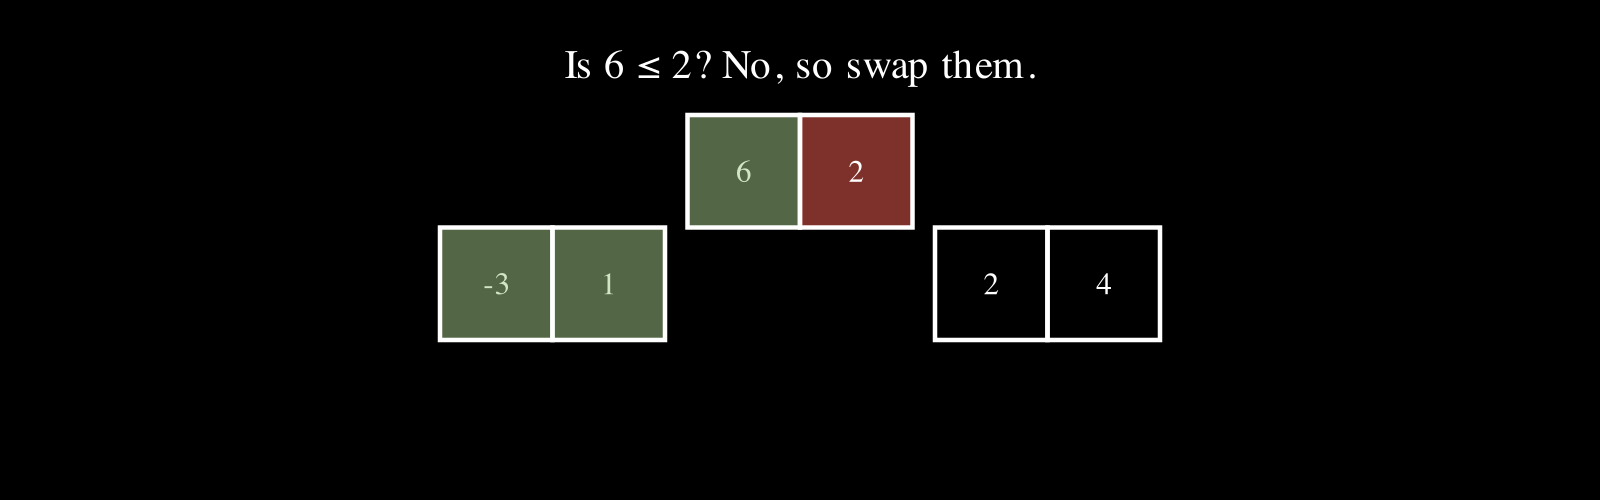
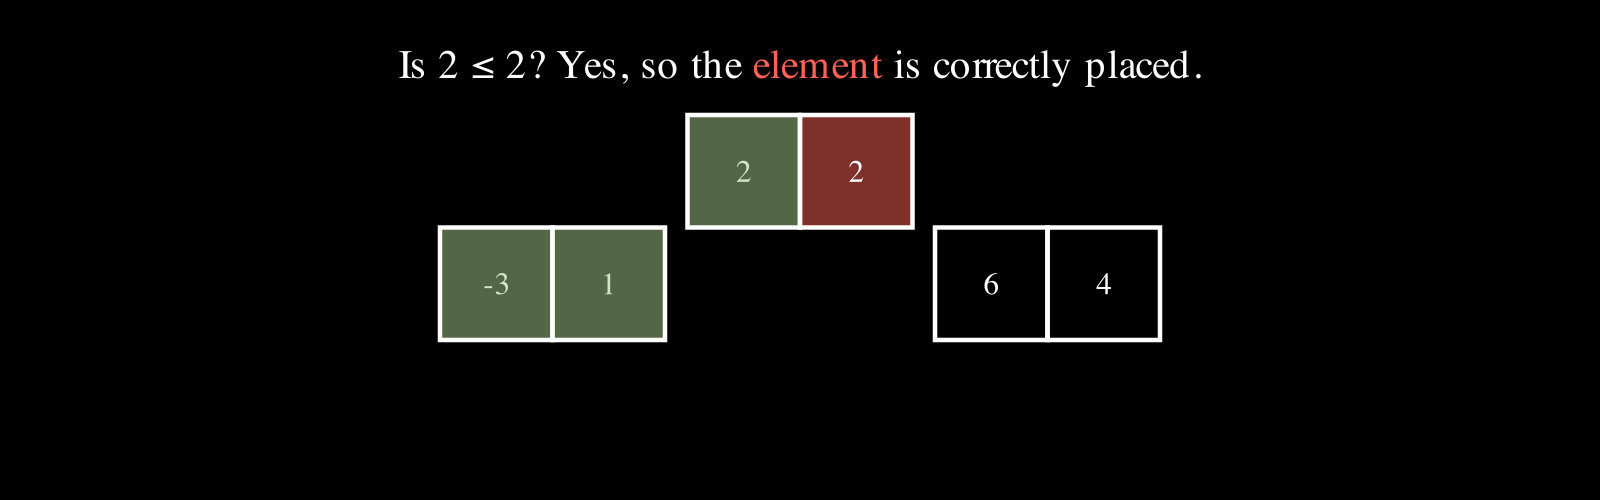
fix insertion sort visual bug and clean UI

Changed region(s): [[0.25, 0.09, 0.75, 0.18], [0.5938, 0.54, 0.625, 0.6], [0.4375, 0.33, 0.4688, 0.36]]

diff --git a/react-src/components/Slideshow.tsx b/react-src/components/Slideshow.tsx
@@ -42,9 +42,9 @@ const Slideshow: React.FC<SlideshowProps> = ({
     updateCurrentSlide((currentRef.current - 1 + size) % size)
   const lastSlide = () => updateCurrentSlide(size - 1)
   const handleKeyDown = useCallback((e: KeyboardEvent) => {
-    if (e.key === "ArrowRight") {
+    if (e.key === "ArrowRight" && currentRef.current !== size - 1) {
       nextSlide()
-    } else if (e.key === "ArrowLeft") {
+    } else if (e.key === "ArrowLeft" && currentRef.current !== 0) {
       prevSlide()
     }
   }, [])
@@ -120,6 +120,18 @@ const Slideshow: React.FC<SlideshowProps> = ({
             }
           </div>
         ))}
+      </div>
+      <div className="flex flex-row justify-end">
+        <div className="flex flex-row justify-end">
+          <span
+            style={{
+              visibility: isFocused ? "visible" : "hidden",
+              color: "gray",
+            }}
+          >
+            Use Arrow keys
+          </span>
+        </div>
       </div>
     </div>
   )

diff --git a/react-src/components/comics/insertion-sort/InsertionSortSnapshot.tsx b/react-src/components/comics/insertion-sort/InsertionSortSnapshot.tsx
@@ -32,11 +32,14 @@ const InsertionSortCode = () => {
     <div>
       <b>Algorithm Steps: </b>
       <ul>
-        <li>For each {elText}, moving from left to right:</li>
-
         <li>
-          Move the {elText} into the {arrayText}. One way to do this is by
-          swapping side-by-side elements repeatedly.
+          For each {elText}, moving from left to right:
+          <ul>
+            <li>
+              Move the {elText} into the {arrayText}. One way to do this is by
+              swapping side-by-side elements repeatedly.
+            </li>
+          </ul>
         </li>
       </ul>
     </div>
@@ -63,7 +66,7 @@ const InsertionSortCode = () => {
     <div>
       {summary}
 
-      <Slideshow folder="/graphics/insertion-sort/slideshow1" size={16} />
+      <Slideshow folder="/graphics/insertion-sort/slideshow1" size={21} />
     </div>
   )
 }

diff --git a/react-src/components/comics/dijkstra/DijkstraCode.tsx b/react-src/components/comics/dijkstra/DijkstraCode.tsx
@@ -34,10 +34,9 @@ dist, prev = dijkstra(g, start)
 print("distance to 6 should be 10 and is", dist[6])
 `
   return (
-    <div>
+    <div className="rounded-lg overflow-hidden">
       <Editor
         className="monaco-editor"
-        //   height="38rem"
         height={pythonCode.split("\n").length * 21 + "px"}
         defaultLanguage="python"
         theme="vs-dark"

diff --git a/react-src/components/Sequence.tsx b/react-src/components/Sequence.tsx
@@ -41,11 +41,9 @@ const Sequence: React.FC<SequenceProps> = ({
   }
   const sequenceStyle: React.CSSProperties = {
     display: "flex",
-    // flexDirection: isColumn ? "column" : "row",
     gap: gap,
     alignItems: alignItems,
   }
-  //   <div key={index} style={{ display: "flex" }}>
   return (
     <div style={outerStyle}>
       {label !== "" && label}

diff --git a/react-src/components/comics/insertion-sort/InsertionSortCode.tsx b/react-src/components/comics/insertion-sort/InsertionSortCode.tsx
@@ -15,7 +15,7 @@ insertion_sort(lst)
 print("list sorted:", lst)
 `
   return (
-    <div>
+    <div className="rounded-lg overflow-hidden">
       <Editor
         className="monaco-editor"
         //   height="38rem"

diff --git a/manim-src/insertion_sort.py b/manim-src/insertion_sort.py
@@ -168,20 +168,26 @@ class InsertionSort(Scene):
                 self.capture()
                 self.clear()
                 while True:
+                    if j < 0:
+                        break
                     vlist = self.show_new_list(lst)
                     self.show_subarray(vlist, subarray_len=i)
                     self.show_list_swap(vlist, j, j + 1, lst[j], lst[j + 1])
                     self.capture()
                     self.clear()
-                    lst[j + 1] = lst[j]
-                    j -= 1
-                    if j < 0 or lst[j] < cur:
+                    if lst[j] <= cur:
                         break
 
-                lst[j + 1] = cur
+                    lst[j], lst[j + 1] = lst[j + 1], lst[j]
+                    j -= 1
+
                 vlist = self.show_new_list(lst)
                 self.show_insertion_result(vlist, i, j + 1)
                 self.capture()
                 self.clear()
+
+            vlist = self.show_new_list(lst)
+            self.show_subarray(vlist, subarray_len=len(lst))
+            self.capture()
 
         insertion_sort(lst)
